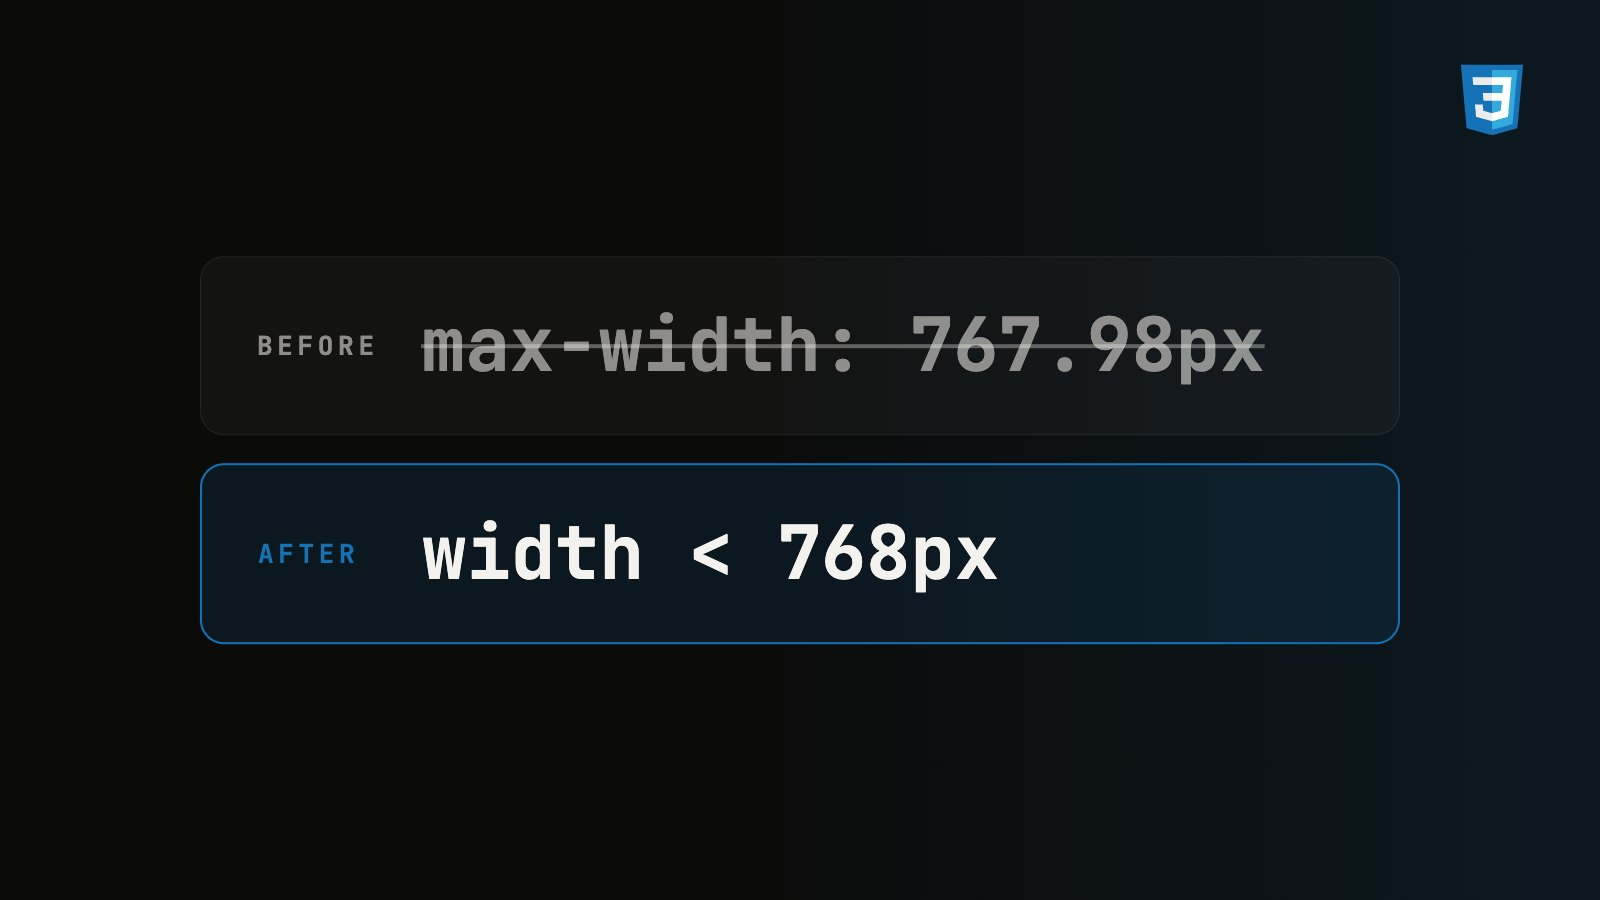
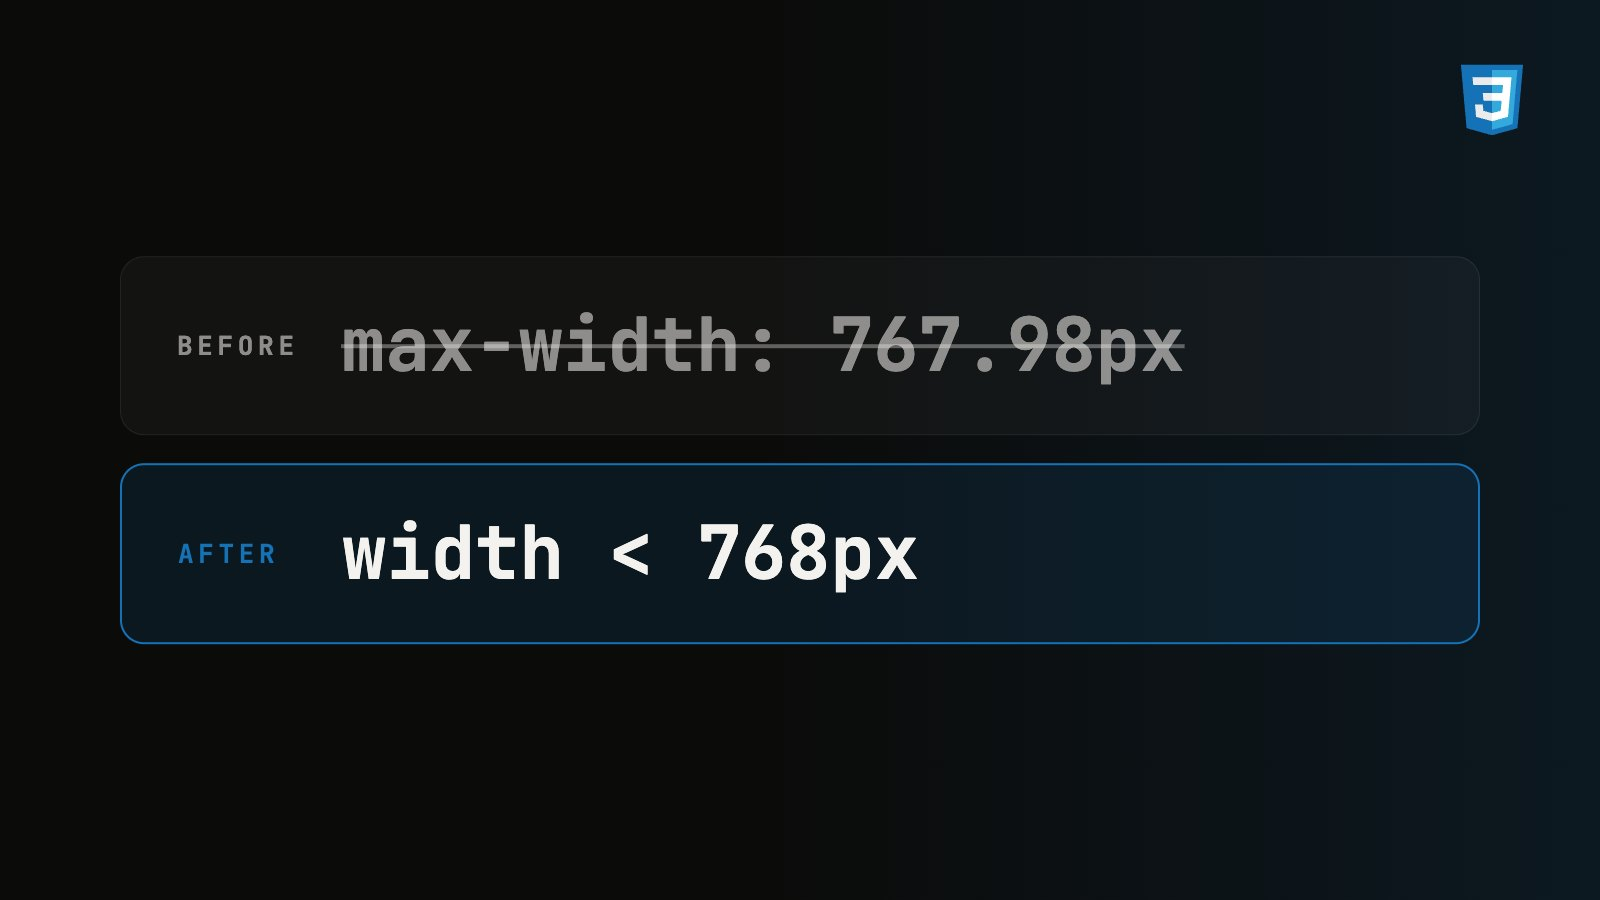
fix(cover): 비교 카드 글자 크기를 길이에 맞춰 줄이기
- 34자까지 허용하면서 74px 고정이라 21자를 넘으면 카드 밖으로 잘리던 문제(header { background: white; } 등)
- 전/후 중 긴 쪽 기준으로 74px → 최소 40px, 카드 좌우 여백 200 → 120px
- 미디어 쿼리 글 커버를 다시 그림

diff --git a/src/post/cover/templates.ts b/src/post/cover/templates.ts
@@ -77,11 +77,15 @@ const CODE_LINE_HEIGHT = 1.5;
 const MONO_CHAR_WIDTH = 0.6;
 const CODE_FONT = { max: 42, min: 26 } as const;
 
+/** 고정폭 글꼴에서 차지하는 칸 수(한글은 두 칸) */
+function monoColumns(text: string): number {
+  return [...text].reduce((sum, char) => sum + (/[\u3131-\uD79D]/.test(char) ? 2 : 1), 0);
+}
+
 /** 줄 수와 가장 긴 줄에 맞춰 글자 크기를 줄인다 — 창 밖으로 넘치지 않게 */
 function codeFontSize(code: string): number {
   const lines = code.split("\n");
-  // 한글은 고정폭 두 칸
-  const widest = Math.max(...lines.map((line) => [...line].reduce((sum, char) => sum + (/[\u3131-\uD79D]/.test(char) ? 2 : 1), 0)));
+  const widest = Math.max(...lines.map(monoColumns));
   const byHeight = CODE_AREA.height / (lines.length * CODE_LINE_HEIGHT);
   const byWidth = CODE_AREA.width / (widest * MONO_CHAR_WIDTH);
   return Math.max(CODE_FONT.min, Math.min(CODE_FONT.max, Math.floor(Math.min(byHeight, byWidth))));
@@ -108,12 +112,23 @@ function codeWindow(spec: CoverSpec): string {
 }
 
 /** 비교형: 이전(흐리게·취소선) → 이후(강조) */
+/** 비교 카드 글자 영역 폭(카드 1360 − 왼쪽 라벨 자리 220 − 오른쪽 여백 56) */
+const COMPARE_TEXT_WIDTH = 1084;
+const COMPARE_FONT = { max: 74, min: 40 } as const;
+
+/** 전/후 중 긴 쪽에 맞춰 글자를 줄인다 — 34자까지 카드 밖으로 넘치지 않게(한글은 두 칸) */
+function compareFontSize(spec: CoverSpec): number {
+  const widest = Math.max(...[spec.before, spec.after].map(monoColumns));
+  const fit = Math.floor(COMPARE_TEXT_WIDTH / (widest * MONO_CHAR_WIDTH));
+  return Math.max(COMPARE_FONT.min, Math.min(COMPARE_FONT.max, fit));
+}
+
 function compare(spec: CoverSpec): string {
   const accent = accentOf(spec);
   return page(
     `.c{background:linear-gradient(90deg,#0b0b0a 0%,#0b0b0a 48%,${accent}22 100%),${BG}}
-     .stack{position:absolute;left:200px;right:200px;top:50%;transform:translateY(-50%);display:flex;flex-direction:column;gap:28px}
-     .side{position:relative;font-size:74px;font-weight:700;line-height:1.2;padding:44px 56px 44px 220px;border-radius:24px;white-space:nowrap}
+     .stack{position:absolute;left:120px;right:120px;top:50%;transform:translateY(-50%);display:flex;flex-direction:column;gap:28px}
+     .side{position:relative;font-size:${compareFontSize(spec)}px;font-weight:700;line-height:1.2;padding:44px 56px 44px 220px;border-radius:24px;white-space:nowrap}
      .side .tag{position:absolute;left:56px;top:50%;transform:translateY(-50%);font-size:26px;letter-spacing:.18em;text-decoration:none}
      .before{color:${MUTED};text-decoration:line-through;text-decoration-thickness:4px;text-decoration-color:rgba(244,242,238,.35);background:rgba(255,255,255,.03);border:1px solid rgba(255,255,255,.07)}
      .after{color:${INK};background:${accent}1f;border:2px solid ${accent}}
